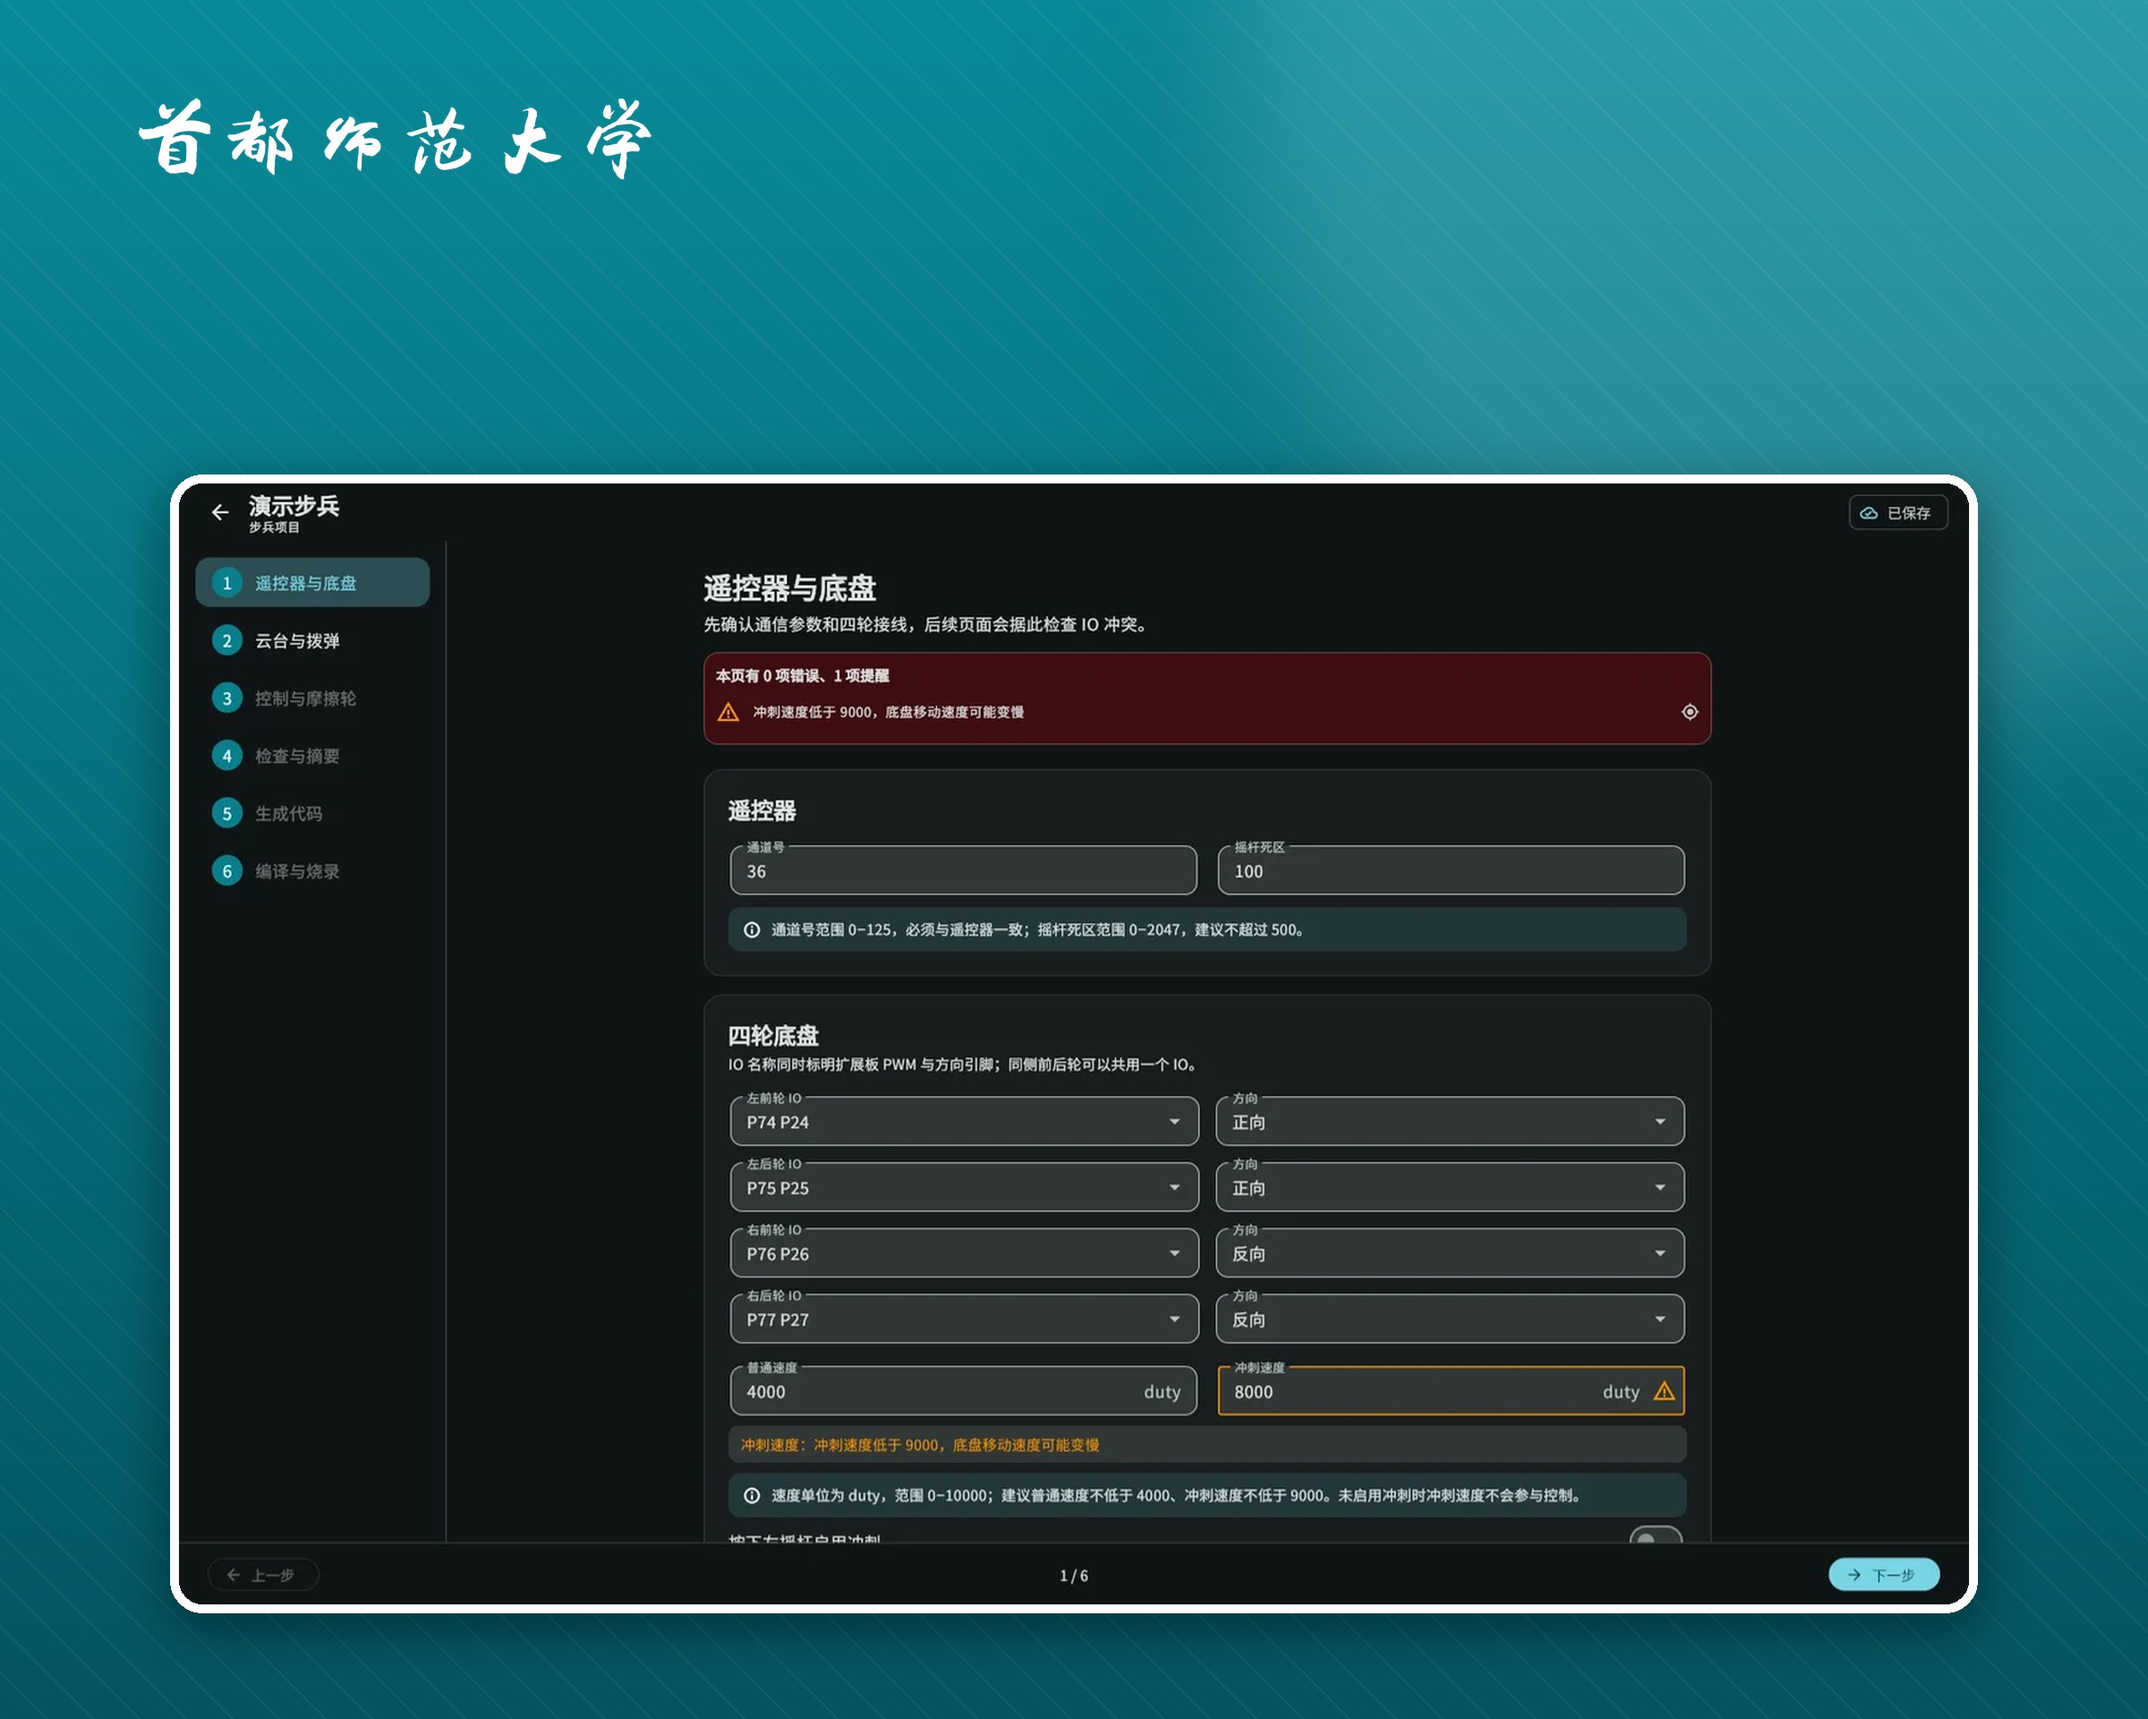
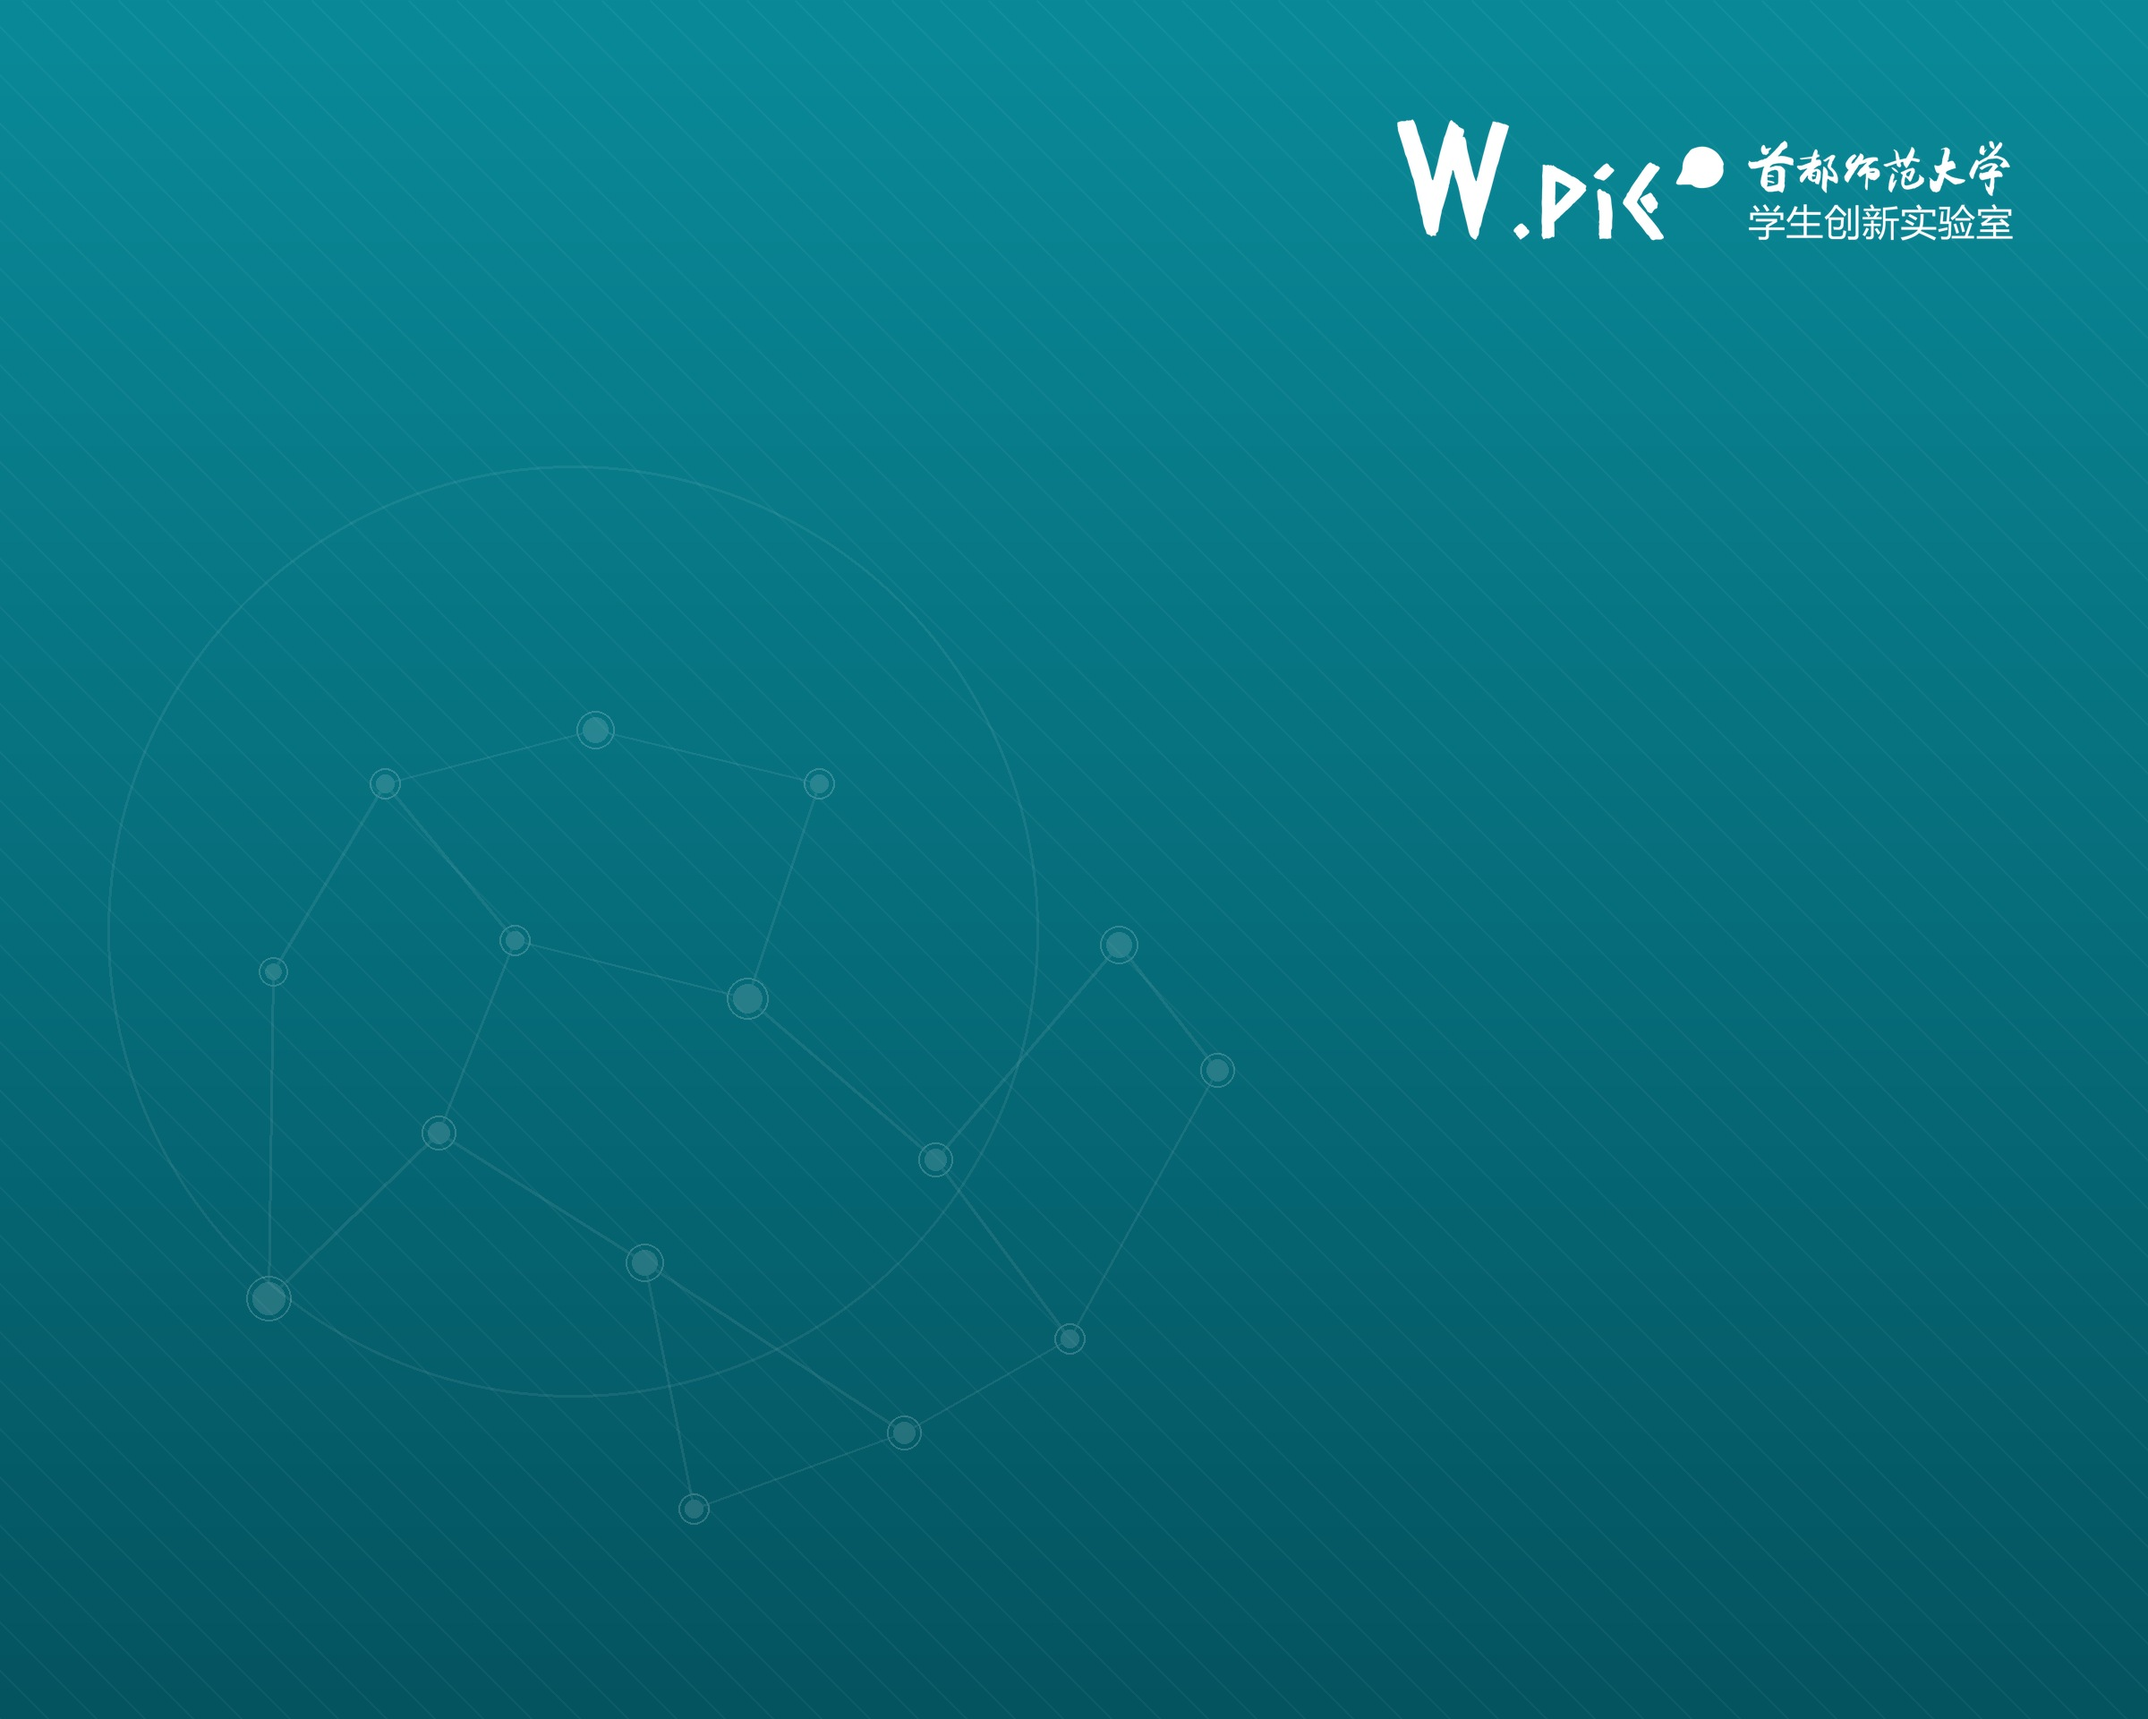
docs(book): 封面改用 W.PIE 标识，放大书名并移除截图与校徽
封面横幅去掉软件截图，右上角改为 W.PIE 学生创新实验室标识；取消右下角校名图片；书名改为《PIE-Block 软件与应用》并放大到 36pt，去掉灰色副标题。

diff --git a/book/main.tex b/book/main.tex
@@ -9,8 +9,8 @@
 \documentclass[lang=cn,10pt,scheme=chinese,color=blue]{elegantbook}
 
 % ---------------------------- 书目信息 --------------------------------------
-\title{PIE-Block 机器人图形化配置教程}
-\subtitle{RoboMaster 机甲大师赛机器人图形化配置集成开发环境}
+% 封面标题：加大字号；\texorpdfstring 保证 PDF 书签里仍是纯文本
+\title{\texorpdfstring{\fontsize{36}{44}\selectfont PIE-Block 软件与应用}{PIE-Block 软件与应用}}
 \author{PIE-Block 项目组}
 \institute{首都师范大学}
 \date{2026 年 10 月}
@@ -26,8 +26,8 @@
 \definecolor{pieblockteal}{HTML}{087F8C}
 \colorlet{coverlinecolor}{pieblockteal}
 
-% ---------------------------- 封面与徽标 ------------------------------------
-\logo{image/logo.png}
+% ---------------------------- 封面 ------------------------------------------
+% 封面横幅右上角为 W.PIE 学生创新实验室标识；不再单独放右下角校名图片
 \cover{image/cover.jpg}
 
 % 目录显示到二级标题（章、节）

diff --git a/book/README.md b/book/README.md
@@ -24,8 +24,8 @@ book/
 │   ├── appendix-b.tex    # 附录 B 常见问题（FAQ）
 │   └── appendix-c.tex    # 附录 C 术语表
 ├── image/
-│   ├── cover.jpg         # 封面横幅：PIE-Block 品牌色 + 真实界面截图 + 校徽
-│   └── logo.png          # 首都师范大学校徽（封面右下角）
+│   ├── cover.jpg         # 封面横幅：品牌色 + 配置拓扑示意 + 右上角 W.PIE 标识
+│   └── wpie-logo.png     # W.PIE 学生创新实验室标识（封面横幅素材）
 ├── reference.bib         # 参考文献（biblatex / biber）
 ├── build.ps1             # Windows 编译脚本
 ├── build.sh              # Linux / macOS 编译脚本
@@ -71,9 +71,9 @@ latexmk -xelatex main.tex
 
 ## 封面与素材来源
 
-- 封面横幅中的界面截图取自 `website/assets/shots/wizard.webp`（应用真实截图）；
-- 校徽取自 `assets/images/cnu-blue.png` / `cnu-white.png`；
-- 封面配色使用应用主题色 `#087F8C`；
+- 封面横幅使用应用主题色 `#087F8C` 与「节点-连接」拓扑示意；
+- 右上角为 W.PIE（首都师范大学学生创新实验室）标识，素材存于 `image/wpie-logo.png`；
+- 封面不放软件截图，也不在右下角单独放校名图片；
 - 文类 `elegantbook.cls` 来自 ElegantBook 项目，遵循 LPPL 1.3c 或更高版本，
   分发时请保留其协议声明与项目地址。
 
